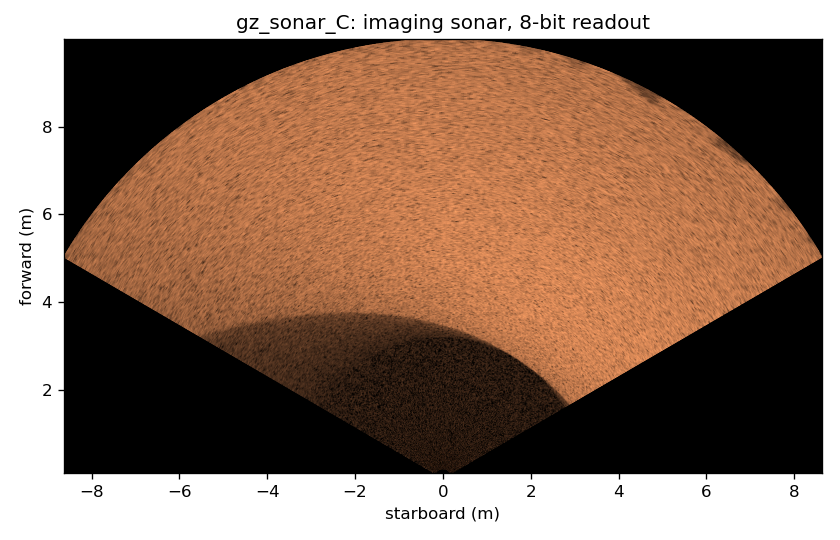
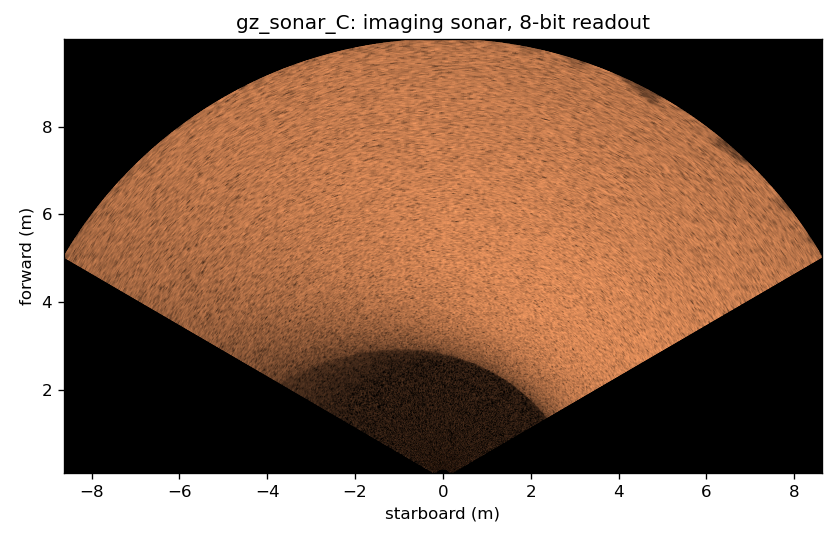
Imaging sonar: rays reach three half-widths of the vertical beam
A new elevation_span parameter sets how far the ray fan reaches in
elevation, in half-widths of the vertical beam, with the ray count
scaled so the angular step stays the same. The ECHO preset uses 3
(30 degrees, 27 dB down), so the seabed fades in from about 4 m in the
first look instead of starting at 4.6 m where the fan used to stop;
sidescan and profiling keep 2 for now. Measured in the first-look
world: 50 % more hits and about 7 ms a ping more on the worker, no
measurable change to the real time factor.

The design documents the parameter and the cost, and the first-look and
Render a ping pictures are redrawn.

Changed region(s): [[0.2476, 0.563, 0.681, 0.7704]]

diff --git a/gz_sonar/src/Rays.cc b/gz_sonar/src/Rays.cc
@@ -38,8 +38,8 @@ std::vector<Ray> RayFan(const SonarConfig &_config)
   const auto azCount = static_cast<std::size_t>(
     std::ceil(2.0 * azHalf / azStep));
 
-  const double elHalf = _config.verticalFov;
-  const std::size_t elCount = std::max<std::size_t>(_config.elevationRays, 1);
+  const double elHalf = 0.5 * _config.verticalFov * _config.elevationSpan;
+  const std::size_t elCount = RayFanElevationCount(_config);
   const double elStep = 2.0 * elHalf / static_cast<double>(elCount);
 
   std::vector<Ray> rays;
@@ -62,7 +62,9 @@ std::vector<Ray> RayFan(const SonarConfig &_config)
 
 std::size_t RayFanElevationCount(const SonarConfig &_config)
 {
-  return std::max<std::size_t>(_config.elevationRays, 1);
+  const double n = static_cast<double>(_config.elevationRays) *
+    _config.elevationSpan / 2.0;
+  return std::max<std::size_t>(static_cast<std::size_t>(std::lround(n)), 1);
 }
 
 void AssignFootprints(std::vector<RayHit> &_hits, std::size_t _elevationCount)

diff --git a/gz_sonar/src/systems/SonarSdf.cc b/gz_sonar/src/systems/SonarSdf.cc
@@ -90,6 +90,15 @@ std::optional<sonar::SonarConfig> LoadSonarConfig(const std::string &_type,
   {
     return std::nullopt;
   }
+  if (auto v = Child<double>(_block, "elevation_span"))
+  {
+    if (*v <= 0.0)
+    {
+      _error = "<elevation_span> must be positive";
+      return std::nullopt;
+    }
+    c.elevationSpan = *v;
+  }
   if (auto v = Child<double>(_block, "beam_width"))
     c.beamWidth = *v;
   if (auto v = Child<double>(_block, "sidelobe_level"))

diff --git a/gz_sonar/src/Config.cc b/gz_sonar/src/Config.cc
@@ -71,6 +71,9 @@ SonarConfig EchoImaging()
   c.frequency = 700000.0;
   c.horizontalFov = 120.0 * kDeg;
   c.verticalFov = 20.0 * kDeg;
+  // Rays out to three half-widths (30 degrees, 27 dB down): the seabed
+  // shows faintly from inside the -3 dB edge, as it does on a real sonar.
+  c.elevationSpan = 3.0;
   c.beams = 256;
   c.beamWidth = 1.5 * kDeg;
   c.rangeMin = 0.2;

diff --git a/docs/design/sonar.md b/docs/design/sonar.md
@@ -79,7 +79,7 @@ This section describes, at a high level, the model component by component, with 
 
 ### The model and its components
 
-All three sonars use this one engine, also called an incoherent intensity model: incoherent because it adds echo powers and never phases. It treats every surface the sonar sees as a patch made of many small, independent scatterers. For each ping it adds up the echo power that every patch inside each beam sends back, placed at the time the echo takes to return, with the sonar equation: the source, the loss to spreading and absorption on the way out and back, the surface's backscatter, and the beam pattern. The random interference between scatterers is not computed wave by wave; it is applied statistically, as speckle. The result is the echo intensity in every beam and range sample, which a readout then turns into what the real device delivers. Coiras and Groen, ["Simulation and 3D reconstruction of side-looking sonar images"](https://doi.org/10.5772/39406) (in *Advances in Sonar Technology*, 2009, open access), derive this model in "Sonar simulation": from the wave equation and point scattering down to the Lambertian, incoherent form used here. Sena and Santos Neto, ["SideScanSim: an open-source side-scan sonar simulator"](https://sol.sbc.org.br/index.php/erbase/article/download/46318/46077/) (2026, with an [open implementation](https://github.com/andreluissena/SideScanSim)), write out the same ingredients in a few lines each: the sonar equation with spreading and Francois–Garrison absorption, Lambert's law for the seabed, time-varied gain, and speckle as an exponentially distributed intensity. For the sonar equation itself, DOSITS has a short introduction, ["SONAR equation"](https://dosits.org/science/advanced-topics/sonar-equation/).
+All three sonars use this one engine, also called an incoherent intensity model: incoherent because it adds echo powers and never phases. It treats every surface the sonar sees as a patch made of many small, independent scatterers. For each ping it adds up the echo power that every patch inside each beam sends back, placed at the time the echo takes to return, with the sonar equation: the source, the loss to spreading and absorption on the way out and back, the surface's backscatter, and the beam pattern. The random interference between scatterers is not computed wave by wave; it is applied statistically, as speckle. The result is the echo intensity in every beam and range sample, which a readout then turns into what the real device delivers. Coiras and Groen, ["Simulation and 3D reconstruction of side-looking sonar images"](https://doi.org/10.5772/39406) (in *Advances in Sonar Technology*, 2009, open access), derive this model in "Sonar simulation": from the wave equation and point scattering down to the Lambertian, incoherent form used here. Sena and Santos Neto, ["SideScanSim: an open-source side-scan sonar simulator"](https://sol.sbc.org.br/index.php/erbase/article/download/46318/46077/) (2026, with an [open implementation](https://github.com/andreluissena/SideScanSim)), write out the same ingredients in a few lines each: the sonar equation with spreading and Francois–Garrison absorption, Lambert's law for the seabed, time-varied gain, and speckle as an exponentially distributed intensity. Short introduction to the ["SONAR equation"](https://dosits.org/science/advanced-topics/sonar-equation/).
 
 The engine follows the terms of the active sonar equation, received level = source level − 2 TL + BS + 10 log A, weighted by the beam pattern, in six components:
 
@@ -104,7 +104,7 @@ flowchart LR
 
 #### Geometry
 
-For each ping, a fan of rays covers the sonar's field of view at finer resolution than the beams, in azimuth and in elevation. Each ray returns the range to the first surface it hits, the incidence angle there, and the acoustic properties of that surface. Taking only the first hit along each ray produces acoustic shadows without any extra step. In Gazebo the rays come from gz-rendering: a depth camera gives the range, read at each ray's exact direction by interpolating 1/z between pixels, which is exact on a plane; a segmentation camera gives the entity hit; and normals come from neighboring hits on the ray grid. Phase 1 measured this at 0.02 mm median range error on a box on a seabed; gz-rendering's ray sensor (GpuRays) was rejected for an error floor of about 8 mm and no normals. Depth cameras report depth along their optical axis, which the sampler converts to range along the ray.
+For each ping, a fan of rays covers the sonar's field of view at finer resolution than the beams, in azimuth and in elevation. In elevation the rays reach past the beam's −3 dB edge, to `elevation_span` half-widths of the vertical beam (three for the imaging sonar, where the pattern is 27 dB down), so the seabed shows faintly before the main beam reaches it, as on a real sonar; the fan then stops, a sampling limit rather than physics. Each ray returns the range to the first surface it hits, the incidence angle there, and the acoustic properties of that surface. Taking only the first hit along each ray produces acoustic shadows without any extra step. In Gazebo the rays come from gz-rendering: a depth camera gives the range, read at each ray's exact direction by interpolating 1/z between pixels, which is exact on a plane; a segmentation camera gives the entity hit; and normals come from neighboring hits on the ray grid. Phase 1 measured this at 0.02 mm median range error on a box on a seabed; gz-rendering's ray sensor (GpuRays) was rejected for an error floor of about 8 mm and no normals. Depth cameras report depth along their optical axis, which the sampler converts to range along the ray.
 
 #### Transmission loss
 
@@ -261,6 +261,7 @@ Parameters shared by the three types. The defaults come from each type's exempla
 | `vertical_fov` | Thickness of the fan about the sensor's y axis, rad | 0.349 (20°) | 0.070 (4°) | 0.873 (50°) | 1° to 50° |
 | `beams` | Beams across the fan | 256 | 20 (most soundings per ping) | 1 | 1 to about 1000 |
 | `beam_width` | Two-way −3 dB width of one beam across the fan, rad | 0.026 (1.5°) | 0.017 (1°, chosen) | the horizontal FOV | 0.25° to 3° |
+| `elevation_span` | How far the rays reach out of the fan, in half-widths of the vertical beam; wider shows more of the faint seabed below the beam, at more cost | 3 (chosen) | 2 (chosen) | 2 (chosen) | 2 to 3 |
 | `sidelobe_level` | First sidelobe relative to the main lobe, dB | −13 (chosen) | −13 (chosen) | −13 (chosen) | −13 (unshaded array) to −40 (heavily shaded) |
 | `range/min`, `range/max` (or `range_min`, `range_max`) | Range window, m | 0.2, 30 | 2.5, 50 | 1 (chosen), 50 | min 0.1 to 5; max 5 to 300 |
 | `samples` | Range samples per beam per ping | 1024 (chosen) | 400 | 600 | 200 to 4000 |
@@ -329,7 +330,7 @@ We write our own code, and take ideas, structure and test cases from the open im
 
 ### Performance
 
-Measured once, on one machine, during Phase 2; read these as a guide to where the time goes, not as specifications. The machine has 24 cores and an NVIDIA RTX 2070 SUPER; the scene is the first-look world (`sonar_first_look.sdf`) with the BlueROV2 and its one forward imaging sonar at the ECHO defaults (256 beams, 768 samples to 15 m, labels on), sampled by two 604 × 429 cameras; the world runs headless.
+Measured once, on one machine, during Phase 2, with the imaging sonar's rays reaching two half-widths of the vertical beam; the default is now three, which adds about 50 % more hits and about 7 ms a ping on the worker (sampling 18 ms, engine 25 ms), with no measurable change to the real time factor; read these as a guide to where the time goes, not as specifications. The machine has 24 cores and an NVIDIA RTX 2070 SUPER; the scene is the first-look world (`sonar_first_look.sdf`) with the BlueROV2 and its one forward imaging sonar at the ECHO defaults (256 beams, 768 samples to 15 m, labels on), sampled by two 604 × 429 cameras; the world runs headless.
 
 A ping has two halves. On the rendering thread, each camera renders depth and then segmentation and reads both back to the CPU. gz-sim's simulation thread waits for rendering whenever a sensor is due, so this half is what slows the world. On the sonar's own worker thread, the camera images become hits, intensities and the readout; this runs alongside the simulation and costs it nothing as long as it keeps up.
 

diff --git a/docs/how-to/sonar-first-look.md b/docs/how-to/sonar-first-look.md
@@ -23,9 +23,9 @@ ros2 run rqt_image_view rqt_image_view /bluerov2/sonar_forward/image/view
 `/view` is the sonar's frame drawn as the fan it covers, forward up, for looking at; the sonar data itself is `/bluerov2/sonar_forward/image`, a `marine_acoustic_msgs/ProjectedSonarImage`.
 
 ```{figure} images/sonar-first-look.png
-:alt: Sonar fan: bright seabed from about 5 m, with the targets as small highlights and shadows near the middle
+:alt: Sonar fan: seabed fading in from about 4 m and bright from about 5 m, with the targets as small highlights and shadows near the middle
 
-The fan, forward up: nothing until the beam meets the seabed, then the targets as bright returns with shadows behind them.
+The fan, forward up: nothing close in, then the seabed, faint where only the edge of the vertical beam reaches it and full where the main beam does, and the targets as bright returns with shadows behind them.
 ```
 
 ## Turn the ROV
